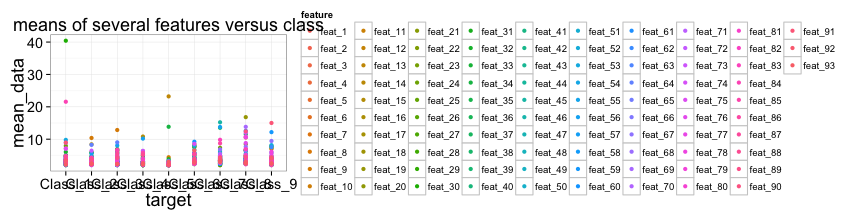
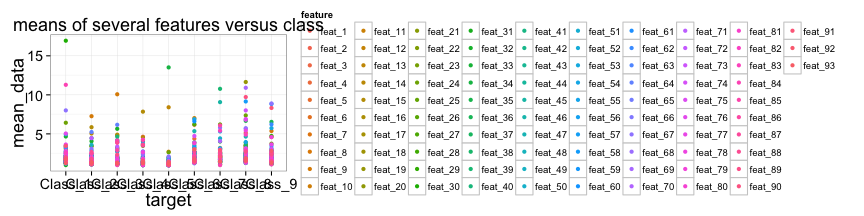
some updates. Still not working

diff --git a/Exploratory Slide Summary.md b/Exploratory Slide Summary.md
@@ -26,7 +26,7 @@ Grabbing the data
 The train data set has 61878 rows and 95 columns. Here is a sample of a few rows and columns. The target column has 9 classifiers:  
 <small>
 <!-- html table generated in R 3.2.0 by xtable 1.7-4 package -->
-<!-- Mon Apr 27 22:43:02 2015 -->
+<!-- Mon Apr 27 23:26:39 2015 -->
 <table border=1>
 <tr> <th> id </th> <th> feat_1 </th> <th> feat_2 </th> <th> feat_3 </th> <th> feat_4 </th> <th> feat_5 </th> <th> feat_92 </th> <th> feat_93 </th> <th> target </th>  </tr>
   <tr> <td align="right">   1 </td> <td align="right">   1 </td> <td align="right">   0 </td> <td align="right">   0 </td> <td align="right">   0 </td> <td align="right">   0 </td> <td align="right">   0 </td> <td align="right">   0 </td> <td> Class_1 </td> </tr>
@@ -38,7 +38,7 @@ The train data set has 61878 rows and 95 columns. Here is a sample of a few rows
 The number of elements in each class is shown below.
 <small>   
 <!-- html table generated in R 3.2.0 by xtable 1.7-4 package -->
-<!-- Mon Apr 27 22:43:02 2015 -->
+<!-- Mon Apr 27 23:26:39 2015 -->
 <table border=1>
 <tr> <th> Class_1 </th> <th> Class_2 </th> <th> Class_3 </th> <th> Class_4 </th> <th> Class_5 </th> <th> Class_6 </th> <th> Class_7 </th> <th> Class_8 </th> <th> Class_9 </th>  </tr>
   <tr> <td align="right"> 1929 </td> <td align="right"> 16122 </td> <td align="right"> 8004 </td> <td align="right"> 2691 </td> <td align="right"> 2739 </td> <td align="right"> 14135 </td> <td align="right"> 2839 </td> <td align="right"> 8464 </td> <td align="right"> 4955 </td> </tr>
@@ -87,7 +87,7 @@ Note that the dimension of this new data frame 1395000 is equal to 15000 X (95 -
 
 Here is a sample...   (the table has 1395000 rows)
 <!-- html table generated in R 3.2.0 by xtable 1.7-4 package -->
-<!-- Mon Apr 27 22:43:03 2015 -->
+<!-- Mon Apr 27 23:26:40 2015 -->
 <table border=1>
 <tr> <th> id </th> <th> target </th> <th> feature </th> <th> data </th>  </tr>
   <tr> <td align="right"> 9869 </td> <td> Class_2 </td> <td> feat_1 </td> <td align="right">   0 </td> </tr>
@@ -125,7 +125,7 @@ print(xtable(train_morph[1:6,]), type="html",include.rownames = FALSE)
 ```
 
 <!-- html table generated in R 3.2.0 by xtable 1.7-4 package -->
-<!-- Mon Apr 27 22:43:05 2015 -->
+<!-- Mon Apr 27 23:26:41 2015 -->
 <table border=1>
 <tr> <th> target </th> <th> feature </th> <th> mean_data </th> <th> sdev_data </th> <th> z_stat </th> <th> CV </th>  </tr>
   <tr> <td> Class_1 </td> <td> feat_1 </td> <td align="right"> 0.44 </td> <td align="right"> 1.05 </td> <td align="right"> 0.42 </td> <td align="right"> 2.37 </td> </tr>
@@ -161,27 +161,18 @@ This is beginning to look promising. We can see at least some variation between 
 Second Summary
 ============================================
 
-Let's get rid of all the data that is <= 1.
+Let's get rid of all the data that is <= 0.
 
 
 ```r
 long_train_original<-long_train
-long_train<-long_train[long_train$data>1,]
+long_train<-long_train[long_train$data>0,]
 ```
+
+the size of the original matrix was 1395000 and the size of the new matrix is 288275.
 
 <small>
 
-```r
-## use ddply to get means and standard deviations
-train_morph<-ddply(long_train, c("target", "feature"), summarize, mean_data = mean(data), sdev_data = sqrt(var(data)))
-
-
-## calculate inverse coeff of variation 
-## (which I will label as z_stat for later use)
-## add small value to prevent overflow errors
-train_morph$z_stat<-train_morph$mean_data/(train_morph$sdev_data+0.00001)
-train_morph$CV<-(train_morph$sdev_data)/(train_morph$mean_data+0.001)
-```
 </small>
 
 Train_Morph the new data
@@ -193,15 +184,15 @@ print(xtable(train_morph[1:6,]), type="html",include.rownames = FALSE)
 ```
 
 <!-- html table generated in R 3.2.0 by xtable 1.7-4 package -->
-<!-- Mon Apr 27 22:43:11 2015 -->
+<!-- Mon Apr 27 23:26:46 2015 -->
 <table border=1>
 <tr> <th> target </th> <th> feature </th> <th> mean_data </th> <th> sdev_data </th> <th> z_stat </th> <th> CV </th>  </tr>
-  <tr> <td> Class_1 </td> <td> feat_1 </td> <td align="right"> 3.12 </td> <td align="right"> 1.63 </td> <td align="right"> 1.92 </td> <td align="right"> 0.52 </td> </tr>
-  <tr> <td> Class_1 </td> <td> feat_2 </td> <td align="right"> 2.88 </td> <td align="right"> 0.83 </td> <td align="right"> 3.45 </td> <td align="right"> 0.29 </td> </tr>
-  <tr> <td> Class_1 </td> <td> feat_3 </td> <td align="right"> 2.21 </td> <td align="right"> 0.43 </td> <td align="right"> 5.20 </td> <td align="right"> 0.19 </td> </tr>
-  <tr> <td> Class_1 </td> <td> feat_4 </td> <td align="right"> 2.00 </td> <td align="right"> 0.00 </td> <td align="right"> 200000.00 </td> <td align="right"> 0.00 </td> </tr>
-  <tr> <td> Class_1 </td> <td> feat_5 </td> <td align="right"> 4.86 </td> <td align="right"> 2.44 </td> <td align="right"> 2.00 </td> <td align="right"> 0.50 </td> </tr>
-  <tr> <td> Class_1 </td> <td> feat_6 </td> <td align="right"> 2.33 </td> <td align="right"> 0.49 </td> <td align="right"> 4.74 </td> <td align="right"> 0.21 </td> </tr>
+  <tr> <td> Class_1 </td> <td> feat_1 </td> <td align="right"> 1.79 </td> <td align="right"> 1.43 </td> <td align="right"> 1.26 </td> <td align="right"> 0.80 </td> </tr>
+  <tr> <td> Class_1 </td> <td> feat_2 </td> <td align="right"> 1.38 </td> <td align="right"> 0.85 </td> <td align="right"> 1.64 </td> <td align="right"> 0.61 </td> </tr>
+  <tr> <td> Class_1 </td> <td> feat_3 </td> <td align="right"> 1.25 </td> <td align="right"> 0.53 </td> <td align="right"> 2.36 </td> <td align="right"> 0.42 </td> </tr>
+  <tr> <td> Class_1 </td> <td> feat_4 </td> <td align="right"> 1.30 </td> <td align="right"> 0.46 </td> <td align="right"> 2.81 </td> <td align="right"> 0.36 </td> </tr>
+  <tr> <td> Class_1 </td> <td> feat_5 </td> <td align="right"> 3.24 </td> <td align="right"> 2.67 </td> <td align="right"> 1.21 </td> <td align="right"> 0.82 </td> </tr>
+  <tr> <td> Class_1 </td> <td> feat_6 </td> <td align="right"> 1.59 </td> <td align="right"> 0.75 </td> <td align="right"> 2.13 </td> <td align="right"> 0.47 </td> </tr>
    </table>
 
 
